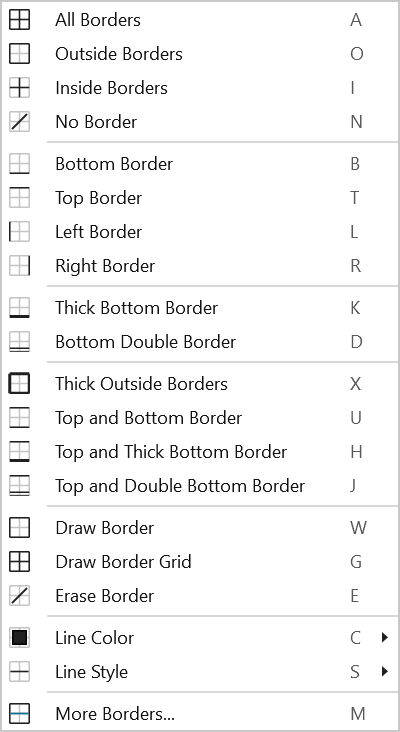
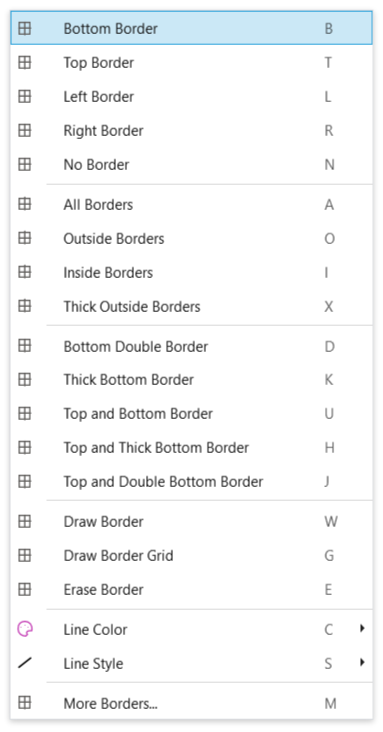
Align Home Borders menu order with Excel

diff --git a/src/FreeX.Ribbon.Definitions/HomeBorderMenuCatalog.cs b/src/FreeX.Ribbon.Definitions/HomeBorderMenuCatalog.cs
@@ -48,17 +48,17 @@ public static class HomeBorderMenuCatalog
 {
     public static readonly IReadOnlyList<HomeBorderMenuCatalogItem> Presets =
     [
-        Item("All Borders", "A", HomeBorderMenuSection.Presets),
-        Item("Outside Borders", "O", HomeBorderMenuSection.Presets),
-        Item("Inside Borders", "I", HomeBorderMenuSection.Presets),
-        Item("No Border", "N", HomeBorderMenuSection.Presets),
         Item("Bottom Border", "B", HomeBorderMenuSection.Presets),
         Item("Top Border", "T", HomeBorderMenuSection.Presets),
         Item("Left Border", "L", HomeBorderMenuSection.Presets),
         Item("Right Border", "R", HomeBorderMenuSection.Presets),
-        Item("Thick Bottom Border", "K", HomeBorderMenuSection.Presets),
-        Item("Bottom Double Border", "D", HomeBorderMenuSection.Presets),
+        Item("No Border", "N", HomeBorderMenuSection.Presets),
+        Item("All Borders", "A", HomeBorderMenuSection.Presets),
+        Item("Outside Borders", "O", HomeBorderMenuSection.Presets),
+        Item("Inside Borders", "I", HomeBorderMenuSection.Presets),
         Item("Thick Outside Borders", "X", HomeBorderMenuSection.Presets),
+        Item("Bottom Double Border", "D", HomeBorderMenuSection.Presets),
+        Item("Thick Bottom Border", "K", HomeBorderMenuSection.Presets),
         Item("Top and Bottom Border", "U", HomeBorderMenuSection.Presets),
         Item("Top and Thick Bottom Border", "H", HomeBorderMenuSection.Presets),
         Item("Top and Double Bottom Border", "J", HomeBorderMenuSection.Presets),
@@ -99,13 +99,11 @@ public static class HomeBorderMenuCatalog
 
     public static void Build(RibbonMenuBuilder menu)
     {
-        Add(menu, Presets.Take(4));
+        Add(menu, Presets.Take(5));
         menu.Separator();
-        Add(menu, Presets.Skip(4).Take(4));
+        Add(menu, Presets.Skip(5).Take(4));
         menu.Separator();
-        Add(menu, Presets.Skip(8).Take(2));
-        menu.Separator();
-        Add(menu, Presets.Skip(10));
+        Add(menu, Presets.Skip(9));
         menu.Separator();
         Add(menu, Draw);
         menu.Separator();

diff --git a/tests/FreeX.App.Host.Tests/RibbonMetadataConvergenceTests.cs b/tests/FreeX.App.Host.Tests/RibbonMetadataConvergenceTests.cs
@@ -164,6 +164,28 @@ public sealed class RibbonMetadataConvergenceTests
     }
 
     [Fact]
+    public void HomeBordersMenu_PrioritizesExcelPrimaryBorderChoices()
+    {
+        HomeBorderMenuCatalog.Presets.Select(item => item.CommandId)
+            .Should()
+            .Equal(
+                "Bottom Border",
+                "Top Border",
+                "Left Border",
+                "Right Border",
+                "No Border",
+                "All Borders",
+                "Outside Borders",
+                "Inside Borders",
+                "Thick Outside Borders",
+                "Bottom Double Border",
+                "Thick Bottom Border",
+                "Top and Bottom Border",
+                "Top and Thick Bottom Border",
+                "Top and Double Bottom Border");
+    }
+
+    [Fact]
     public void ArrangeMenu_OwnsStableIconsWithoutEnglishLabelReconstruction()
     {
         var arrangeMenu = FreeXRibbon.Build().Tabs
